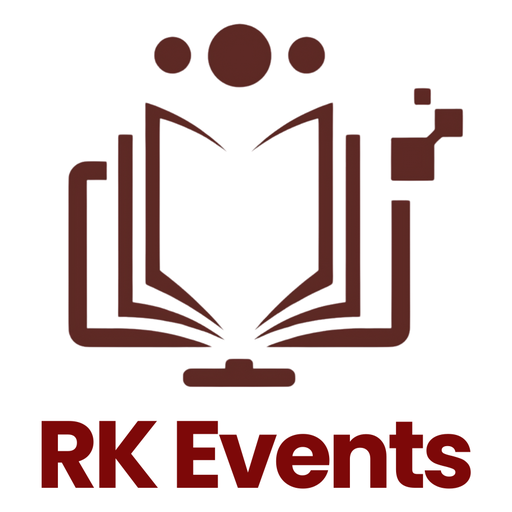
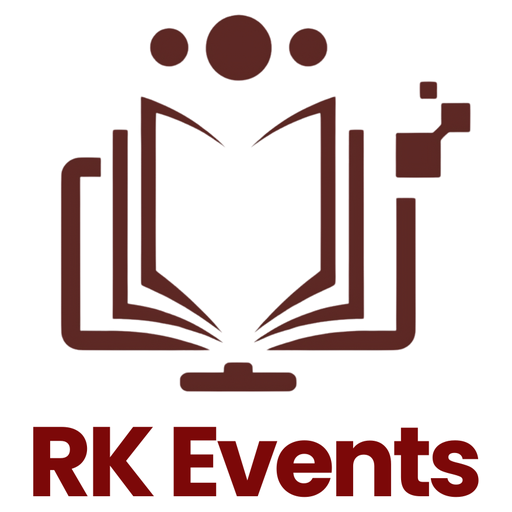
Ikon lini jadi penanda halaman, bukan navigasi empat kartu
Logo RK dipakai sebagai ikon halaman: satu logo sesuai nama halamannya,
di tengah tepat di atas judul. Deretan empat kartu di beranda dan di tiap
hero dibuang.

Hero keempat halaman jadi rata tengah. Ikon di tengah di atas judul yang
rata kiri akan terlihat menggantung sendirian.

Label kecil di atas judul ("Event", "Blog", "Layanan", "Merchandise")
dihapus karena ikonnya sudah menandai hal yang sama di tempat yang sama.

Beranda tidak mendapat ikon: beranda bukan salah satu dari keempat lini.

Berkas PNG dibuat ulang dengan latar transparan. Logo aslinya berlatar
putih, dan di atas hero brand-50 yang merah muda itu tampak sebagai kotak
putih. Alpha dihitung dari jarak tiap piksel ke putih lalu warnanya
di-un-premultiply, supaya tepi anti-alias tidak meninggalkan halo pucat.

Claude-Session: https://claude.ai/code/session_0174ZXzBxZSteTGyNmPUq8Fu

diff --git a/app/(marketing)/layanan/page.tsx b/app/(marketing)/layanan/page.tsx
@@ -3,7 +3,7 @@ import type { Metadata } from "next";
 import { ArrowRight, CheckCircle2 } from "lucide-react";
 import { Button } from "@/components/ui/button";
 import { Logo } from "@/components/ui/logo";
-import { NavSubBrand } from "@/components/landing/NavSubBrand";
+import { IkonLini } from "@/components/landing/IkonLini";
 import { BRAND, waLink } from "@/lib/brand";
 
 export const metadata: Metadata = {
@@ -208,26 +208,17 @@ export default function LayananPage({
 
       {/* ── Hero ── */}
       <section className="bg-brand-50 px-4 py-12 lg:py-16">
-        <div className="mx-auto max-w-6xl">
-          <div className="mb-3 flex items-center gap-2">
-            <span className="h-0.5 w-8 rounded-full bg-brand" />
-            <span className="text-xs font-bold uppercase tracking-widest text-brand">
-              Layanan
-            </span>
-          </div>
-          <h1 className="text-3xl font-extrabold leading-tight text-slate-900 lg:text-5xl">
+        <div className="mx-auto max-w-4xl text-center">
+          <IkonLini lini="service" />
+          <h1 className="mt-5 text-3xl font-extrabold leading-tight text-slate-900 lg:text-5xl">
             Pendampingan untuk tulisan yang{" "}
             <span className="text-brand">kamu kerjakan sendiri</span>
           </h1>
-          <p className="mt-3 max-w-xl leading-relaxed text-slate-600">
+          <p className="mx-auto mt-4 max-w-xl leading-relaxed text-slate-600">
             Semua layanan bertumpu pada hal yang sama: kamu tetap penulis karyamu.
             Mentor membantu melewati bagian yang macet, bukan menggantikanmu
             mengerjakannya.
           </p>
-
-          <div className="mt-8 max-w-3xl">
-            <NavSubBrand aktif="service" />
-          </div>
         </div>
       </section>
 

diff --git a/app/(marketing)/blog/page.tsx b/app/(marketing)/blog/page.tsx
@@ -4,7 +4,7 @@ import type { Metadata } from "next";
 import { ArrowRight, CalendarDays, Clock, Search } from "lucide-react";
 import { Button } from "@/components/ui/button";
 import { Logo } from "@/components/ui/logo";
-import { NavSubBrand } from "@/components/landing/NavSubBrand";
+import { IkonLini } from "@/components/landing/IkonLini";
 import { BRAND, waLink } from "@/lib/brand";
 
 export const metadata: Metadata = {
@@ -186,25 +186,16 @@ export default async function BlogPage({
 
       {/* ── Hero ── */}
       <section className="bg-brand-50 px-4 py-12 lg:py-16">
-        <div className="mx-auto max-w-6xl">
-          <div className="mb-3 flex items-center gap-2">
-            <span className="h-0.5 w-8 rounded-full bg-brand" />
-            <span className="text-xs font-bold uppercase tracking-widest text-brand">
-              Blog
-            </span>
-          </div>
-          <h1 className="text-3xl font-extrabold leading-tight text-slate-900 lg:text-5xl">
+        <div className="mx-auto max-w-4xl text-center">
+          <IkonLini lini="news" />
+          <h1 className="mt-5 text-3xl font-extrabold leading-tight text-slate-900 lg:text-5xl">
             Panduan menyusun penelitian,{" "}
             <span className="text-brand">ditulis mentor kami</span>
           </h1>
-          <p className="mt-3 max-w-xl leading-relaxed text-slate-600">
+          <p className="mx-auto mt-4 max-w-xl leading-relaxed text-slate-600">
             Dari merumuskan masalah sampai menghadapi penguji. Semuanya bisa
             kamu kerjakan sendiri — artikel ini menunjukkan caranya.
           </p>
-
-          <div className="mt-8 max-w-3xl">
-            <NavSubBrand aktif="news" />
-          </div>
         </div>
       </section>
 

diff --git a/app/(marketing)/merchandise/page.tsx b/app/(marketing)/merchandise/page.tsx
@@ -8,7 +8,7 @@ import { BRAND, waLink } from "@/lib/brand";
 import { formatRupiah } from "@/lib/utils/format-currency";
 import { KATEGORI, produkKategori } from "@/lib/merchandise/katalog";
 import { fotoUtama } from "@/lib/merchandise/foto";
-import { NavSubBrand } from "@/components/landing/NavSubBrand";
+import { IkonLini } from "@/components/landing/IkonLini";
 
 export const metadata: Metadata = {
   title: "Merchandise",
@@ -53,25 +53,16 @@ export default function MerchandisePage({
 
       {/* ── Hero ── */}
       <section className="bg-brand-50 px-4 py-12 lg:py-16">
-        <div className="mx-auto max-w-6xl">
-          <div className="mb-3 flex items-center gap-2">
-            <span className="h-0.5 w-8 rounded-full bg-brand" />
-            <span className="text-xs font-bold uppercase tracking-widest text-brand">
-              Merchandise
-            </span>
-          </div>
-          <h1 className="text-3xl font-extrabold leading-tight text-slate-900 lg:text-5xl">
+        <div className="mx-auto max-w-4xl text-center">
+          <IkonLini lini="merch" />
+          <h1 className="mt-5 text-3xl font-extrabold leading-tight text-slate-900 lg:text-5xl">
             Semua Kebutuhan Mahasiswa,{" "}
             <span className="text-brand">Tersedia di RK Merchandise</span>
           </h1>
-          <p className="mt-3 max-w-2xl text-lg font-bold leading-relaxed text-slate-800">
+          <p className="mx-auto mt-4 max-w-2xl text-lg font-bold leading-relaxed text-slate-800">
             Harga Terjangkau, Free Delivery, Kualitas Terjamin dan Bergaransi
             100%
           </p>
-
-          <div className="mt-8 max-w-3xl">
-            <NavSubBrand aktif="merch" />
-          </div>
         </div>
       </section>
 

diff --git a/app/(marketing)/event/page.tsx b/app/(marketing)/event/page.tsx
@@ -7,7 +7,7 @@ import {
 } from "lucide-react";
 import { Button } from "@/components/ui/button";
 import { Logo } from "@/components/ui/logo";
-import { NavSubBrand } from "@/components/landing/NavSubBrand";
+import { IkonLini } from "@/components/landing/IkonLini";
 import { BRAND, waLink } from "@/lib/brand";
 
 export const metadata: Metadata = {
@@ -272,25 +272,16 @@ export default function EventPage() {
 
       {/* ── Hero ── */}
       <section className="bg-brand-50 px-4 py-12 lg:py-16">
-        <div className="mx-auto max-w-6xl">
-          <div className="mb-3 flex items-center gap-2">
-            <span className="h-0.5 w-8 rounded-full bg-brand" />
-            <span className="text-xs font-bold uppercase tracking-widest text-brand">
-              Event
-            </span>
-          </div>
-          <h1 className="text-3xl font-extrabold leading-tight text-slate-900 lg:text-5xl">
+        <div className="mx-auto max-w-4xl text-center">
+          <IkonLini lini="events" />
+          <h1 className="mt-5 text-3xl font-extrabold leading-tight text-slate-900 lg:text-5xl">
             Webinar, bootcamp, dan{" "}
             <span className="text-brand">workshop penelitian</span>
           </h1>
-          <p className="mt-3 max-w-xl leading-relaxed text-slate-600">
+          <p className="mx-auto mt-4 max-w-xl leading-relaxed text-slate-600">
             Belajar bersama peserta lain yang sedang di tahap yang sama. Daring
             maupun tatap muka di Solo.
           </p>
-
-          <div className="mt-8 max-w-3xl">
-            <NavSubBrand aktif="events" />
-          </div>
         </div>
       </section>
 

diff --git a/components/landing/IkonLini.tsx b/components/landing/IkonLini.tsx
@@ -1,0 +1,40 @@
+import Image from "next/image";
+
+/**
+ * Ikon lini Ruang Konsul Solo, dipasang di atas judul halaman.
+ *
+ * Satu halaman menampilkan satu ikon saja — ikonnya menandai halaman itu
+ * sendiri, bukan daftar pilihan, jadi tidak bisa diklik dan tidak
+ * mengarah ke mana-mana.
+ *
+ * Berkas PNG-nya berlatar transparan. Logo aslinya berlatar putih; kalau
+ * dipakai apa adanya, di atas hero yang merah muda akan terlihat sebagai
+ * kotak putih.
+ *
+ * alt dikosongkan dengan sengaja: nama lininya sudah tertulis di dalam
+ * gambar dan diulang di judul halaman tepat di bawahnya, jadi pembaca
+ * layar tidak perlu mendengarnya tiga kali.
+ */
+
+export type LiniBrand = "merch" | "service" | "news" | "events";
+
+const LOGO: Record<LiniBrand, string> = {
+  merch: "/sub-brand/rk-merch.png",
+  service: "/sub-brand/rk-service.png",
+  news: "/sub-brand/rk-news.png",
+  events: "/sub-brand/rk-events.png",
+};
+
+export function IkonLini({ lini }: { lini: LiniBrand }) {
+  return (
+    <Image
+      src={LOGO[lini]}
+      alt=""
+      width={512}
+      height={512}
+      sizes="160px"
+      priority
+      className="mx-auto h-28 w-28 object-contain lg:h-32 lg:w-32"
+    />
+  );
+}

diff --git a/app/(marketing)/page.tsx b/app/(marketing)/page.tsx
@@ -12,7 +12,6 @@ import { HeroSlider } from "@/components/landing/HeroSlider";
 import { HeroBackground } from "@/components/landing/HeroBackground";
 import { BannerStrip } from "@/components/landing/BannerStrip";
 import { LogoKampus } from "@/components/landing/LogoKampus";
-import { NavSubBrand } from "@/components/landing/NavSubBrand";
 import { KartuTool, TOOLS } from "@/components/landing/KartuTool";
 import { KotakPeriksa } from "@/components/periksa/KotakPeriksa";
 import { TestimoniWhatsApp } from "@/components/landing/TestimoniWhatsApp";
@@ -228,13 +227,6 @@ export default function LandingPage() {
 
       {/* ── Banner Iklan Bimbingan ── */}
       <BannerStrip />
-
-      {/* ── Empat lini Ruang Konsul Solo ── */}
-      <section className="border-b border-slate-100 bg-brand-50 px-4 py-10">
-        <div className="mx-auto max-w-4xl">
-          <NavSubBrand />
-        </div>
-      </section>
 
       {/* ── Layanan Tab Utama ── */}
       <section id="layanan" className="mx-auto max-w-6xl px-4 py-20">
